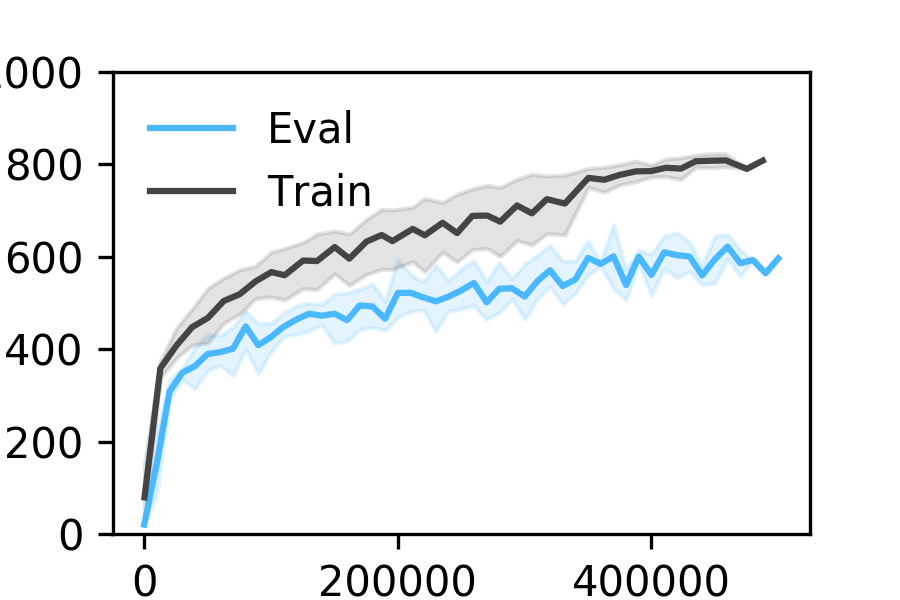
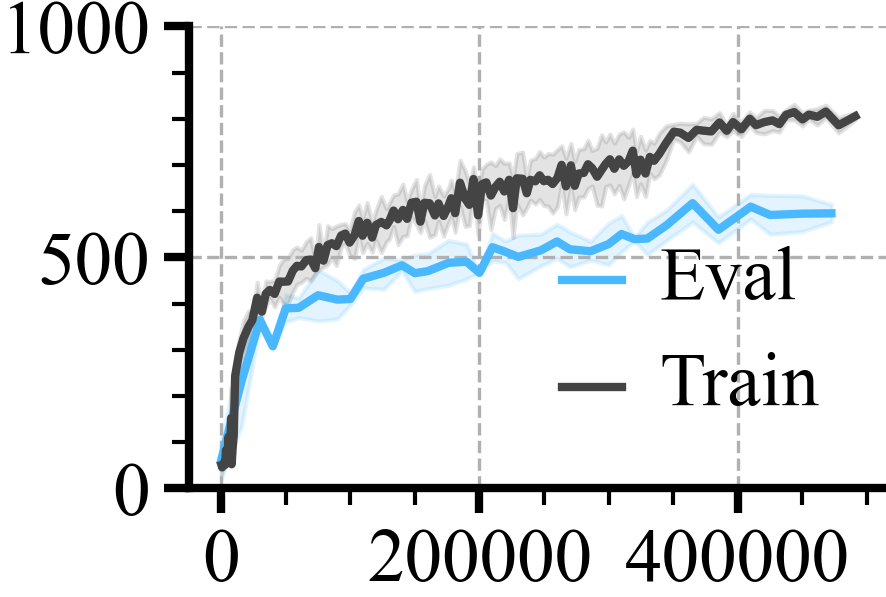
add all_methods

diff --git a/03_all_methods.py b/03_all_methods.py
@@ -20,11 +20,12 @@ with doc @ """Check all the files""":
     doc.print(files)
 
 with doc @ """Plotting A Single Time Series""":
-    def group(xKey="step", yKey="train/episode_reward/mean", color=None, bins=40, label=None):
-        avg, top, bottom, step, = loader.read_metrics(yKey + "@mean", yKey + "@95%", yKey + "@5%", x_key=xKey + "@mean",
-                                                      path="**/metrics.pkl", bin_size=bins)
-        plt.plot(step.to_list(), avg.to_list(), color=color, label=label)
+    def group(xKey="step", yKey="train/episode_reward/mean", color=None, bin=10, label=None, dropna=False):
+        avg, top, bottom, step = loader.read_metrics(f"{yKey}@mean", f"{yKey}@84%", f"{yKey}@16%", x_key=f"{xKey}@mean",
+                                                     path="**/metrics.pkl", bin_size=bin, dropna=dropna)
+        plt.plot(step, avg, color=color, label=label)
         plt.fill_between(step, bottom, top, alpha=0.15, color=color)
+        return avg
 
 with doc @ "Step 2: Plot", doc.table().figure_row() as r:
     title = "CURL"
@@ -34,7 +35,7 @@ with doc @ "Step 2: Plot", doc.table().figure_row() as r:
         plt.figure(figsize=(3, 2))
 
         with loader.Prefix(method):
-            group(yKey="episode_reward/mean", color=colors[0], bins=None, label="Eval")
+            group(yKey="episode_reward/mean", color=colors[0], bin=None, label="Eval")
             group(yKey="train/episode_reward/mean", color=colors[1], label="Train")
             plt.legend(frameon=False)
             plt.ylim(0, 1000)

diff --git a/03_all_methods.md b/03_all_methods.md
@@ -1,5 +1,5 @@
 
-# 3. Facet and Grouping
+# Facet and Grouping
 
 Here we show the learning curve from multiple methods, on the same domain.
 
@@ -7,7 +7,7 @@ We typically arrange the data with a folder structure `f"{domain}/{method}/{seed
 
 Initialize the loader
 ```python
-loader = ML_Logger(prefix="data/walker-walk")
+loader = ML_Logger(root=os.getcwd(), prefix="data/walker-walk")
 ```
 Check all the files
 ```python
@@ -20,13 +20,12 @@ doc.print(files)
 ```
 Plotting A Single Time Series
 ```python
-def group(xKey="step", yKey="train/episode_reward/mean", color=None, bins=40, label=None):
-    if bins:
-        bins = BinOptions(key=xKey, size=bins)
-    step, avg, top, bottom = loader.read_metrics(xKey, yKey, yKey + "@95%", yKey + "@5%",
-                                                 path="**/metrics.pkl", bin=bins)
-    plt.plot(step.to_list(), avg.to_list(), color=color, label=label)
+def group(xKey="step", yKey="train/episode_reward/mean", color=None, bin=10, label=None, dropna=False):
+    avg, top, bottom, step = loader.read_metrics(f"{yKey}@mean", f"{yKey}@84%", f"{yKey}@16%", x_key=f"{xKey}@mean",
+                                                 path="**/metrics.pkl", bin_size=bin, dropna=dropna)
+    plt.plot(step, avg, color=color, label=label)
     plt.fill_between(step, bottom, top, alpha=0.15, color=color)
+    return avg
 ```
 Step 2: Plot
 ```python
@@ -37,7 +36,7 @@ for method in ['curl', 'rad', 'pad', 'soda']:
     plt.figure(figsize=(3, 2))
 
     with loader.Prefix(method):
-        group(yKey="episode_reward/mean", color=colors[0], bins=None, label="Eval")
+        group(yKey="episode_reward/mean", color=colors[0], bin=None, label="Eval")
         group(yKey="train/episode_reward/mean", color=colors[1], label="Train")
         plt.legend(frameon=False)
         plt.ylim(0, 1000)
